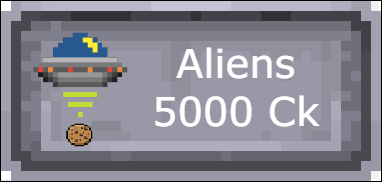
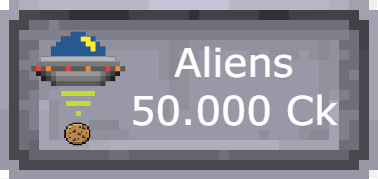
updated costs and imaegs

diff --git a/main.py b/main.py
@@ -185,25 +185,25 @@ def main():
                 else:
                     opacityG = 200
 
-                if stats["cookies"] >= 1500:
+                if stats["cookies"] >= 2000:
                     opacityO = 255
                     btn3.buttonClick(onButtonOvenClick)
                 else:
                     opacityO = 200
 
-                if stats["cookies"] >= 2500:
+                if stats["cookies"] >= 10000:
                     opacityFa = 255
                     btn4.buttonClick(onButtonFactoryClick)
                 else: 
                     opacityFa = 200
 
-                if stats["cookies"] >= 5000:
+                if stats["cookies"] >= 50000:
                     opacityA = 255
                     btn5.buttonClick(onButtonAliensClick)
                 else:
                     opacityA = 200
                 
-                if stats["cookies"] >= 10000:
+                if stats["cookies"] >= 100000:
                     update = True
                 
                 infoButton.buttonClick(onInfoClick)
@@ -267,7 +267,7 @@ def main():
             infoButton.drawButton()
             pauseMusic.drawButton()
 
-            if update and stats["win"] != 1 and stats["cookies"] >= 10000:
+            if update and stats["win"] != 1 and stats["cookies"] >= 100000:
                 titleScreen.drawUpdateCommingSoon()
                 pygame.event.set_blocked(pygame.MOUSEBUTTONDOWN)
                 pygame.event.set_blocked(pygame.MOUSEBUTTONUP)
